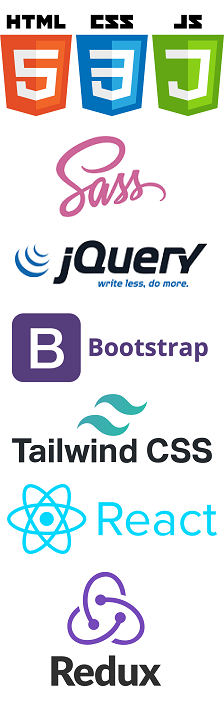
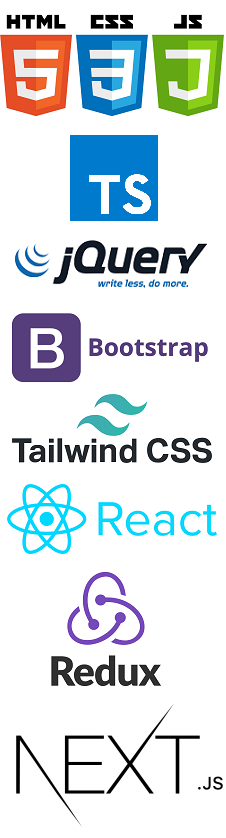
포트폴리오 수정

diff --git a/src/components/Projects.js b/src/components/Projects.js
@@ -11,6 +11,77 @@ function Projects() {
           </div>
           <div className="projectsContainer">
             <div className="projectsContent">포트폴리오 웹사이트</div>
+            <div className="projectsDate">
+              2023.02 ~ 2023.03 (1人 개인 프로젝트)
+            </div>
+            <div className="content">
+              <img
+                alt="portfolio"
+                src={`${process.env.PUBLIC_URL}/img/redditProject.png`}
+                className="projectsImgNet"
+              />
+              <div className="contentMainBack">
+                <div className="contentMain">
+                  <b>Next.js의 학습을 위해 reddit을 클론 코딩 한 웹사이트</b>
+                  입니다.
+                  <br />
+                  프론트엔드 부분은 리액트의 NextJs를 사용하고,
+                  <br />
+                  백엔드 부분은 NodeJs와 ExpressJs를 사용했습니다.
+                  <br />
+                  두 부분 모두 언어는 타입스크립트를 사용했습니다.
+                  <br />
+                  데이터베이스는 PostgreSQL을 이용하며 TypeORM을 이용해서 컨트롤
+                  했습니다.
+                  <br />
+                  Next.js의 학습 방법과
+                  <br />
+                  백엔드와 데이터베이스가 어떻게 돌아가는지 알 수 있는 좋은
+                  기회였습니다.
+                  <br />
+                  <br />
+                  <a
+                    href="https://github.com/kimhsr/reddit-project"
+                    target="_blank"
+                    rel="noreferrer"
+                  >
+                    <div className="contentButton">자세히 보기</div>
+                  </a>
+                </div>
+                <div className="projectsDescription">
+                  <div className="projectsDeTitle">✔ 주요 기능</div>
+                  <div className="projectsDeContent">
+                    로그인, 회원가입, 커뮤니티 생성, 이미지 업로드
+                    <br />
+                    게시글 작성, 댓글, 투표 기능
+                  </div>
+                </div>
+                <div className="projectsDescription">
+                  <div className="projectsDeTitle">✔ URL</div>
+                  <a
+                    href="http://reddit-project.kro.kr/"
+                    target="_blank"
+                    rel="noreferrer"
+                  >
+                    <div className="projectsDeContent">
+                      reddit-project.kro.kr
+                    </div>
+                  </a>
+                </div>
+                <div className="projectsDescription">
+                  <div className="projectsDeTitle">✔ SKILLS</div>
+                  <div className="projectsDeContent">
+                    Next.js, Typescript, Tailwind CSS,
+                    <br />
+                    ExpressJS, Postgres, Doker
+                  </div>
+                </div>
+              </div>
+            </div>
+          </div>
+
+          <div className="projectsContainer">
+            <div className="projectsContent">포트폴리오 웹사이트</div>
             <div className="projectsDate">2022.12 (1人 개인 프로젝트)</div>
             <div className="content">
               <img

diff --git a/src/components/Archiving.js b/src/components/Archiving.js
@@ -25,13 +25,37 @@ function Archiving() {
               </a>
               <div className="archivingDescription">
                 <p>
-                  <b>소스 코드 저장소</b>
-                  입니다.
+                  <b>소스 코드 저장소</b>입니다.
                 </p>
                 <ul>
                   <li>과거 프로젝트, 프로그램 소스 코드</li>
                   <li>혼자서 코딩 연습을 위해 끄적이던 소스 코드</li>
                   <li>교육 수강한 수업들의 코딩 과제 소스 코드</li>
+                </ul>
+              </div>
+            </div>
+            <div className="archivingback" id="archivingback2">
+              <img
+                alt="velogImg"
+                src={`${process.env.PUBLIC_URL}/img/Velog.png`}
+                className="archivingImg2"
+              />
+              <a
+                href="https://velog.io/@kimhsr"
+                target="_blank"
+                rel="noreferrer"
+              >
+                <div className="archivingUrl">velog.io/@kimhsr</div>
+              </a>
+              <div className="archivingDescription">
+                <p>
+                  <b>복습하려고 만든 블로그</b>
+                  입니다.
+                </p>
+                <ul>
+                  <li>배운 내용 복슴 겸 정리</li>
+                  <li>자주 검색하게 되는 내용 기록</li>
+                  <li>까먹어도 쉽게 찾을 수 있는 에러 기록</li>
                 </ul>
               </div>
             </div>

diff --git a/src/components/Archiving.css b/src/components/Archiving.css
@@ -27,6 +27,8 @@
 }
 
 .archivingContainer {
+  display: flex;
+  flex-wrap: wrap;
   max-width: 57rem;
   margin: 0 auto;
   text-align: center;
@@ -52,6 +54,13 @@
   top: 30px;
   left: 30px;
   width: 200px;
+}
+
+.archivingImg2 {
+  position: absolute;
+  top: 30px;
+  left: 30px;
+  width: 160px;
 }
 
 .archivingUrl {
@@ -80,6 +89,12 @@
   list-style-type: disc;
   text-align: left;
   line-height: 2rem;
+}
+
+@media screen and (max-width: 880px) {
+  #archivingback2 {
+    margin-top: 40px;
+  }
 }
 
 @media screen and (max-width: 576px) {
